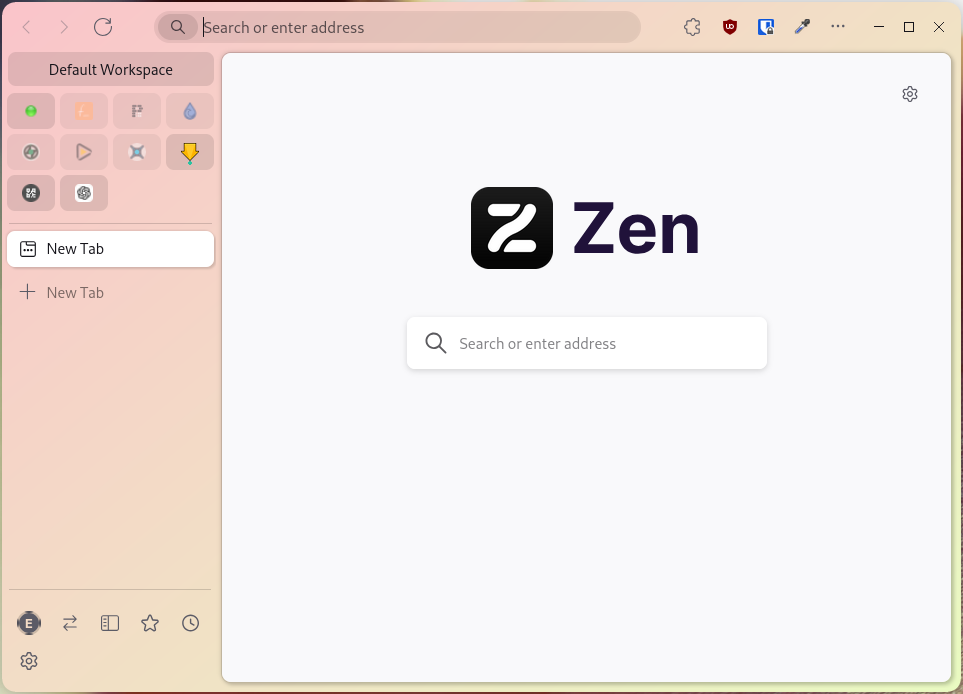
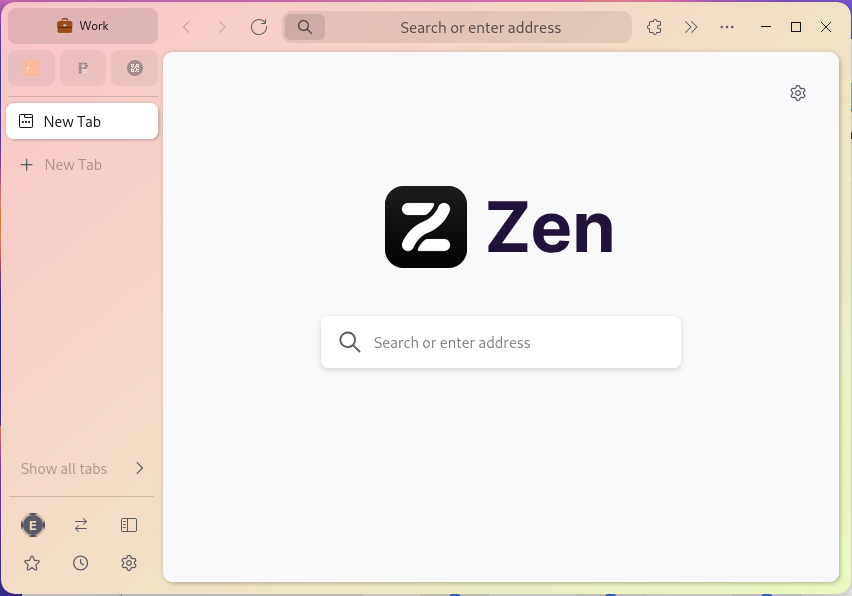
ezuitb: update to new browser ui

diff --git a/EricsZenUITweakBox/chrome.css b/EricsZenUITweakBox/chrome.css
@@ -221,16 +221,6 @@
   }
 }
 
-/* Pinned tabs no-scroll */
-@media (-moz-bool-pref: "uc.erics-zen-ui-tweak-box.pinned-tabs-no-scroll.enabled") {
-  #vertical-pinned-tabs-container {
-    max-height: unset !important;
-    overflow-x: unset !important;
-    overflow-y: unset !important;
-    overflow: visible !important;
-  }
-}
-
 /* Pinned tabs grid layout */
 @media (-moz-bool-pref: "uc.erics-zen-ui-tweak-box.pinned-tabs-layout.enabled") {
   #vertical-pinned-tabs-container {
@@ -301,28 +291,89 @@
     background-color: var(--ezuitb-darken-background-hover) !important;
   }
 
-  #tabs-newtab-button:hover > .toolbarbutton-icon {
+  #vertical-tabs-newtab-button:hover > .toolbarbutton-icon,
+  #alltabs-button:hover > .toolbarbutton-badge-stack {
     background-color: transparent !important;
+  }
+}
+
+/* All tabs button tweaks */
+@media (-moz-bool-pref: "uc.erics-zen-ui-tweak-box.all-tabs-button-tweaks.enabled") {
+  #alltabs-button {
+    margin-left: var(--ezuitb-element-half-separation) !important;
+    margin-right: 2px !important;
+    padding: var(--zen-element-separation) !important;
+    border-radius: 8px;
+    background-color: transparent !important;
+    height: var(--ezuitb-tab-bar-button-height) !important;
+    width: var(--ezuitb-tab-bar-button-height) !important;
+    margin-left: calc(var(--ezuitb-element-half-separation) + 1px) !important;
+
+    > .toolbarbutton-badge-stack {
+      padding: 0 !important;
+    }
+
+    &:hover {
+      background-color: var(--ezuitb-tab-background-hover) !important;
+    }
+
+    > .toolbarbutton-icon,
+    > .toolbarbutton-badge-stack {
+      background-color: transparent !important;
+    }
+  }
+
+  /* Zen all tabs button - expanded */
+  @media (-moz-bool-pref: "zen.view.sidebar-expanded") {
+    #alltabs-button {
+      width: calc(
+        100% - var(--ezuitb-element-half-separation) + 2px
+      ) !important;
+      margin-left: calc(var(--ezuitb-element-half-separation) - 2px) !important;
+    }
+  }
+}
+
+/* All tabs Button with text */
+@media (-moz-bool-pref: "uc.erics-zen-ui-tweak-box.all-tabs-button-text.enabled") {
+  @media (-moz-bool-pref: "zen.view.sidebar-expanded") {
+    #alltabs-button {
+      display: flex;
+      flex-direction: row !important;
+      justify-content: flex-start !important;
+      padding-left: calc(
+        var(--ezuitb-element-three-quarters-separation) * 2
+      ) !important;
+      &:before {
+        font-size: 1rem;
+        content: "Show all tabs";
+        flex: 1;
+        color: var(--ezuitb-new-tab-button-text-color);
+      }
+    }
   }
 }
 
 /* Tab tweaks */
 @media (-moz-bool-pref: "uc.erics-zen-ui-tweak-box.tab-button-tweaks.enabled") {
-  #TabsToolbar,
-  #tabbrowser-tabs,
-  #tabbrowser-arrowscrollbox {
-    overflow-x: unset !important;
-    overflow-y: unset !important;
-  }
+  @media (-moz-bool-pref: "zen.view.sidebar-expanded") {
+    /* This is needed to show the shadow */
+    #TabsToolbar,
+    #tabbrowser-tabs,
+    #tabbrowser-arrowscrollbox {
+      overflow-x: unset !important;
+      overflow-y: unset !important;
+    }
 
-  /* Even if you set overflow: visible, this container cuts the shadow on
+    /* Even if you set overflow: visible, this container cuts the shadow on
   right side of the button, so our only option is to increase the width */
-  #tabbrowser-arrowscrollbox {
-    width: calc(100% + var(--ezuitb-element-half-separation));
+    #tabbrowser-arrowscrollbox {
+      width: calc(100% + var(--ezuitb-element-half-separation));
 
-    .tabbrowser-tab:not([pinned]) {
-      width: calc(100% - var(--ezuitb-element-half-separation)) !important;
-      margin-right: var(--ezuitb-element-half-separation) !important;
+      .tabbrowser-tab:not([pinned]) {
+        width: calc(100% - var(--ezuitb-element-half-separation)) !important;
+        margin-right: var(--ezuitb-element-half-separation) !important;
+      }
     }
   }
 
@@ -344,6 +395,7 @@
 /* New tab tweaks */
 @media (-moz-bool-pref: "uc.erics-zen-ui-tweak-box.new-tab-button-tweaks.enabled") {
   #vertical-tabs-newtab-button {
+    width: var(--ezuitb-tab-bar-button-height) !important;
     background-color: transparent !important;
     height: var(--ezuitb-tab-bar-button-height) !important;
 
@@ -353,6 +405,12 @@
 
     > .toolbarbutton-icon {
       background-color: transparent !important;
+    }
+  }
+
+  @media (-moz-bool-pref: "zen.view.sidebar-expanded") {
+    #vertical-tabs-newtab-button {
+      width: 100% !important;
     }
   }
 }
